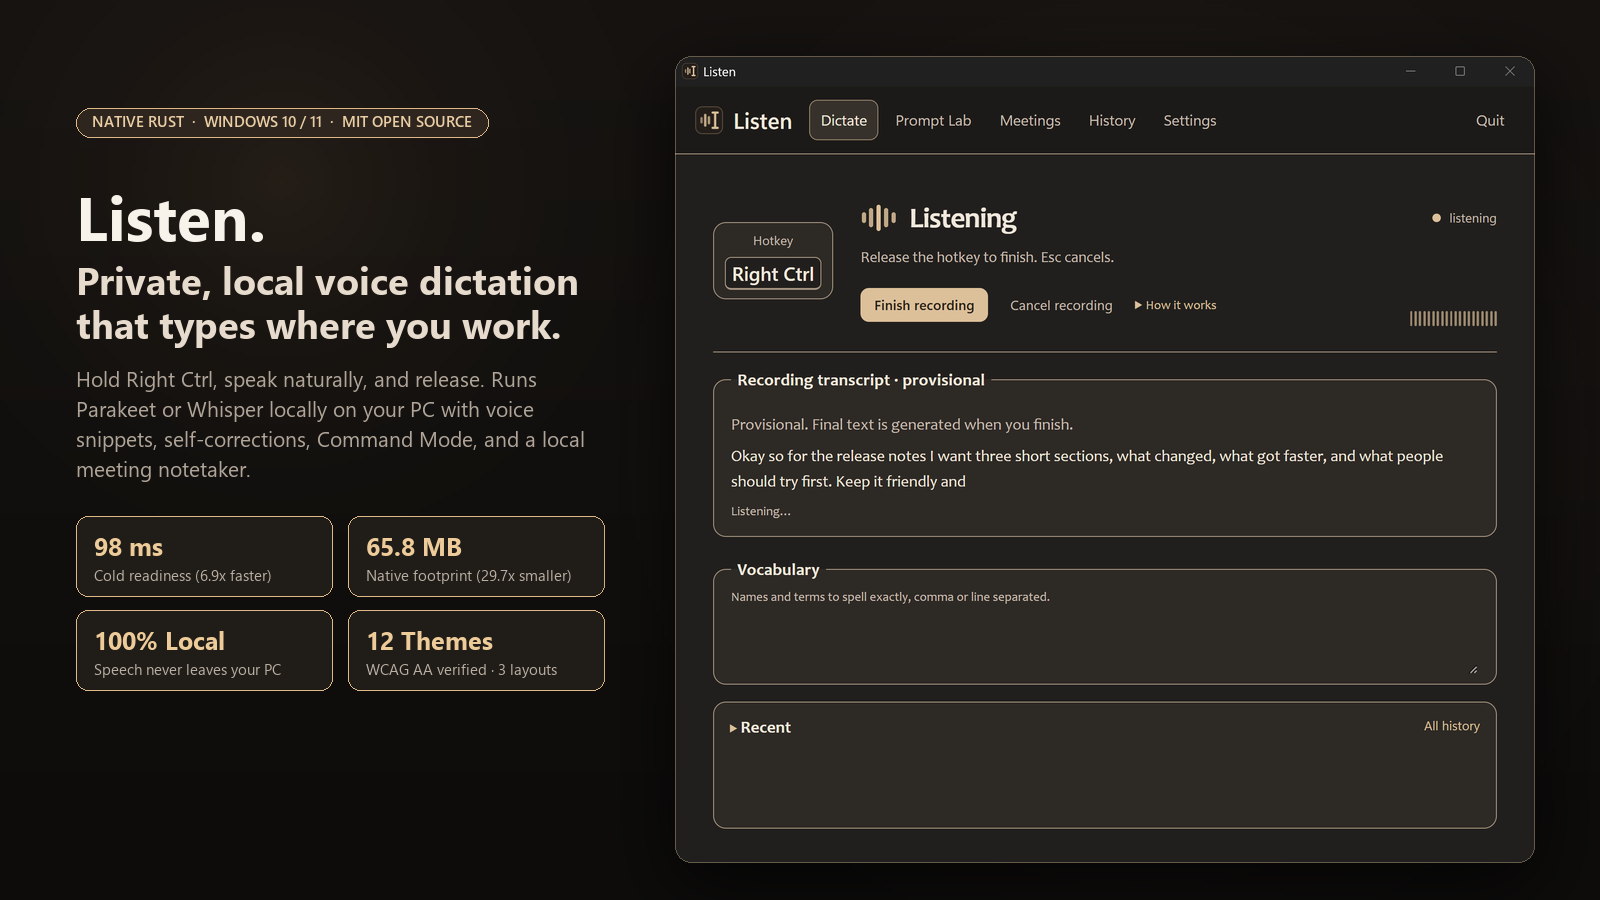
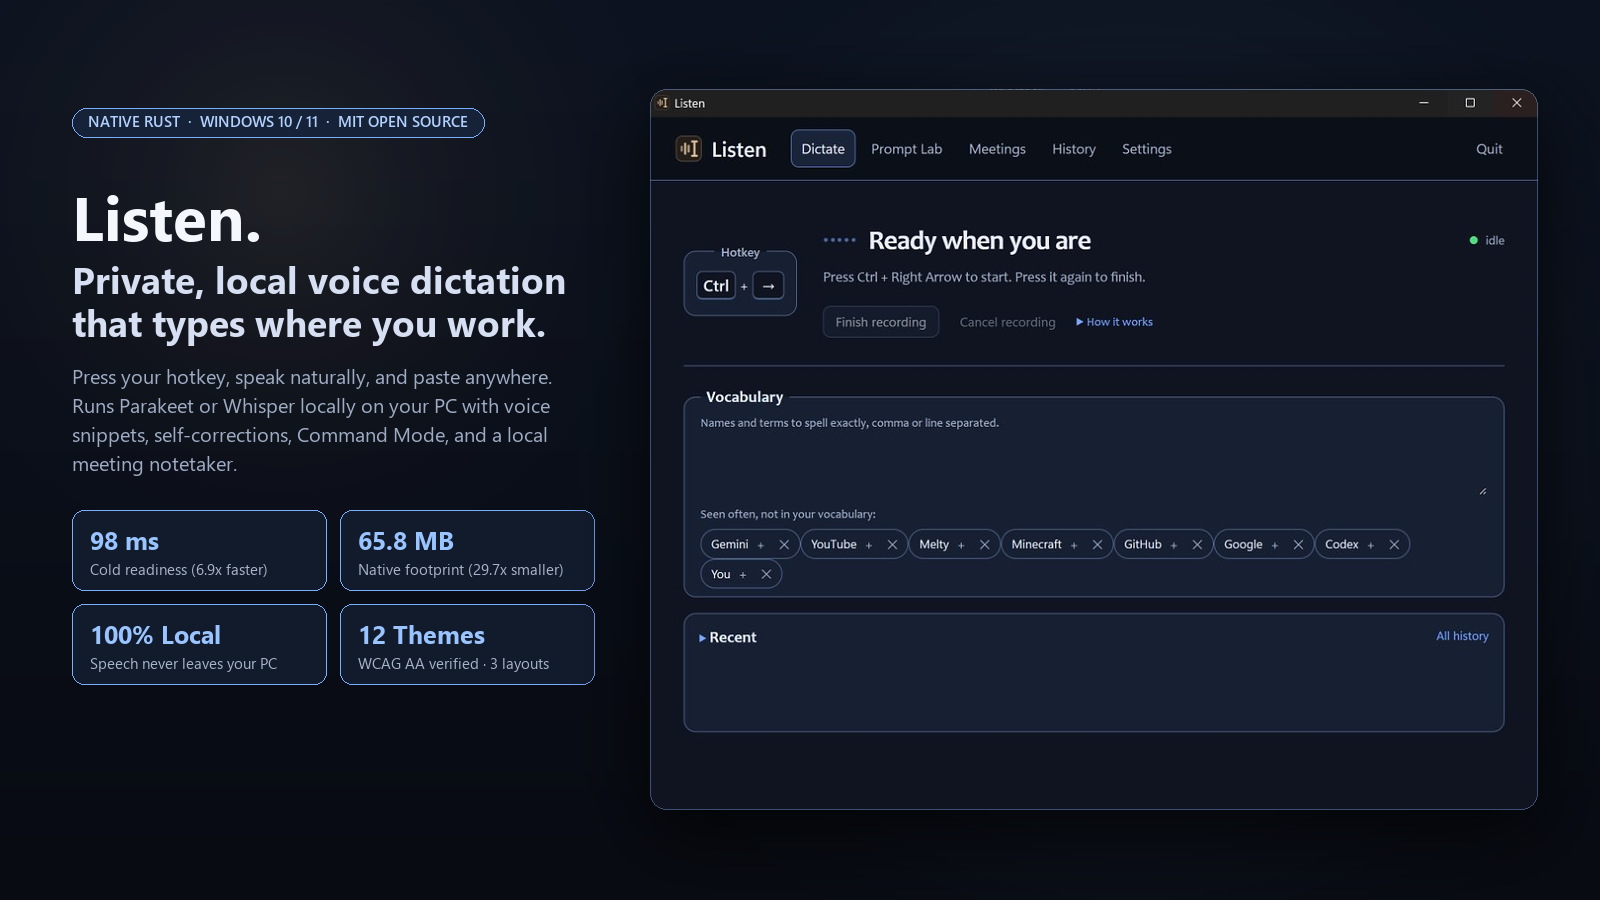
Update README hero screenshot with cleaned Midnight capture

diff --git a/README.md b/README.md
@@ -13,7 +13,7 @@
 
 <br />
 
-<img src="docs/images/hero-dictate.png" alt="Listen native Rust voice dictation app for Windows showing live provisional transcript, Right Ctrl push-to-talk hotkey, 98ms cold readiness, 65.8MB footprint, and Warm Charcoal theme" width="100%" />
+<img src="docs/images/hero-dictate.png" alt="Listen native Rust voice dictation app for Windows in Midnight theme showing custom Ctrl + Right Arrow hotkey, adaptive vocabulary suggestions, 98ms cold readiness, and 65.8MB native footprint" width="100%" />
 
 </div>
 
